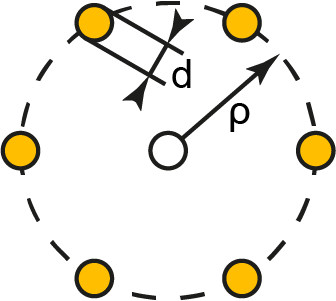
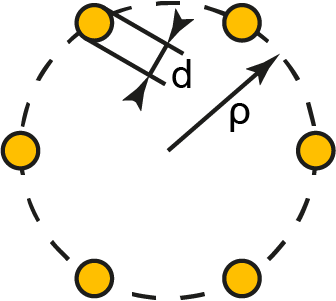
new cage pic

Changed region(s): [[0.4167, 0.4186, 0.5655, 0.5681]]

diff --git a/tables_hertwig.py b/tables_hertwig.py
@@ -29,6 +29,9 @@ KDl=[
 #Korrektur! Originale: 0.28:2.406; 0.90:6.171; 1.20:7.510; 1.80:9.569; 2.60:12.01
 ]
 
+#K1 = 6,2133*np.log(D/h) + 5,6932
+
+
 plt.figure()
 #plt.plot(Q2lh[0],Q2lh[1])
 #plt.plot(P2hl[0],P2hl[1])
